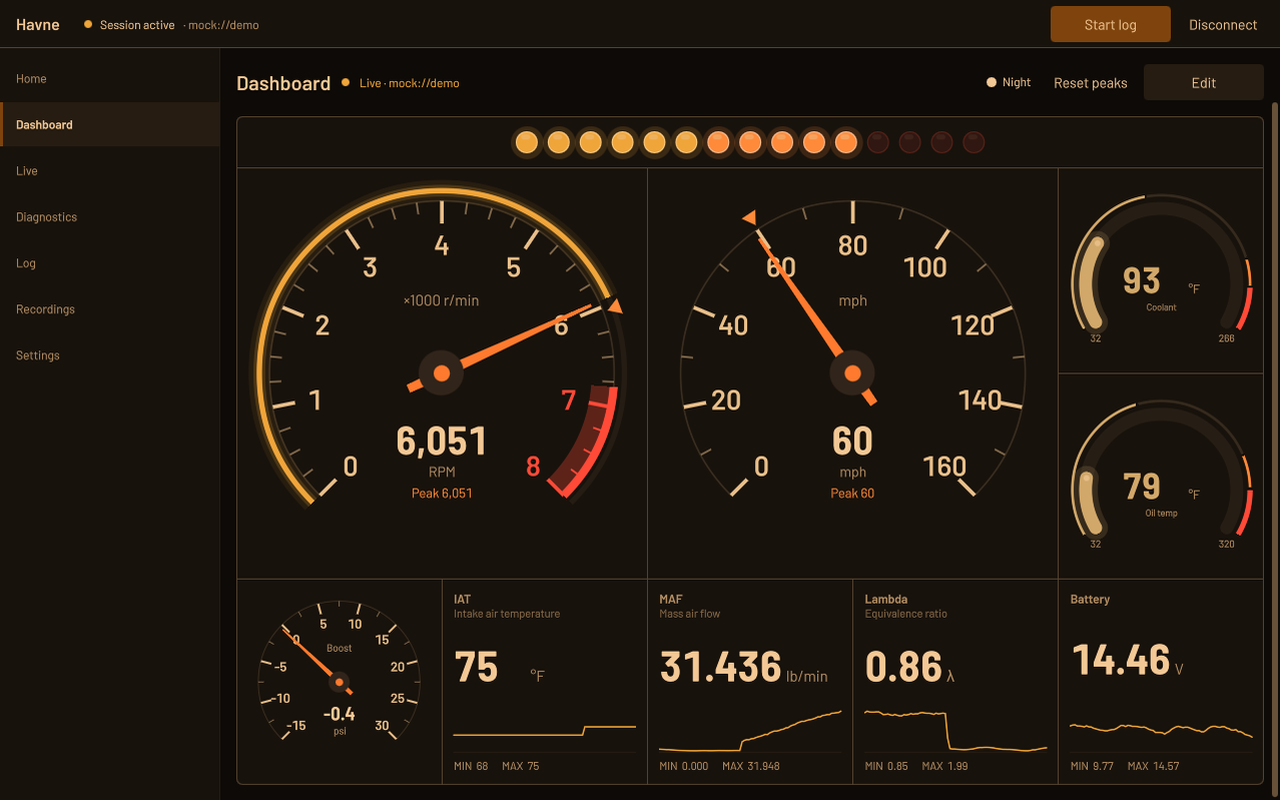
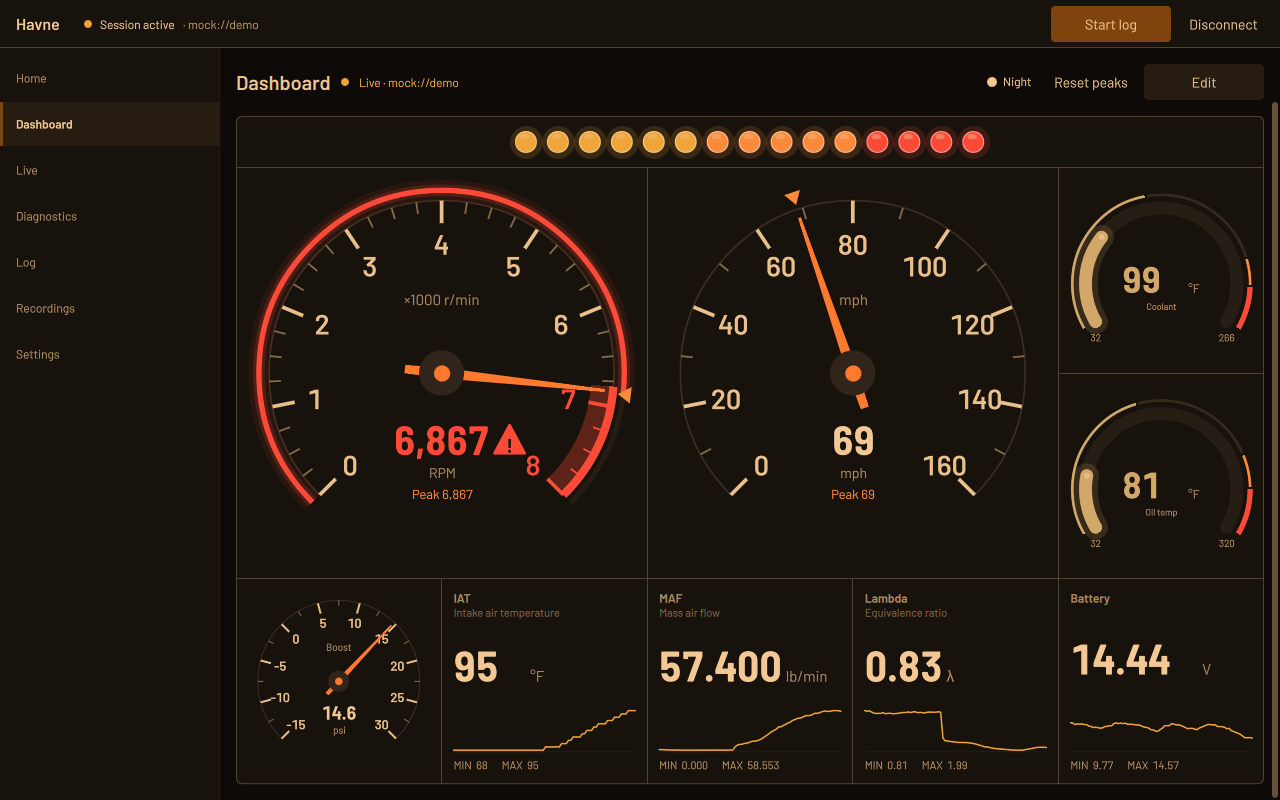
docs: retake the desktop Dashboard media with the turbo
The demo engine is turbocharged, so the README's Dashboard clip and the Light and Night stills show the Boost dial reading about 16 psi in a pull. The gallery's alt texts and the clip's caption follow.

diff --git a/docs/screenshots.md b/docs/screenshots.md
@@ -20,12 +20,12 @@ show. The README shows a few of these.
 
 ![The Dashboard through a quarter mile: a launch from the two-step near 3,900 rpm, upshifts that refill the shift lights, and past 100 mph at the line](images/dashboard.gif)
 
-*A quarter mile on the warmed-up vehicle: the launch, each upshift, and
-coolant and oil climbing toward the fan's cut-in.*
+*A quarter mile on the warmed-up vehicle: the launch, each upshift, boost
+building to about 16 psi, and coolant and oil climbing toward the fan's cut-in.*
 
 | Light | Night, amber | Night, red |
 |---|---|---|
-| [![The Dashboard in the Light look in a 2nd-gear pull at 5,849 rpm](images/desktop-dashboard-light.png)](images/desktop-dashboard-light.png) | [![The Dashboard in Night's amber style in a 2nd-gear pull at 6,051 rpm](images/desktop-dashboard-amber.png)](images/desktop-dashboard-amber.png) | [![The Dashboard in Night's red style in a 2nd-gear pull at 6,336 rpm](images/desktop-dashboard-red.png)](images/desktop-dashboard-red.png) |
+| [![The Dashboard in the Light look in a 2nd-gear pull at 5,992 rpm](images/desktop-dashboard-light.png)](images/desktop-dashboard-light.png) | [![The Dashboard in Night's amber style in a 2nd-gear pull at 6,867 rpm](images/desktop-dashboard-amber.png)](images/desktop-dashboard-amber.png) | [![The Dashboard in Night's red style in a 2nd-gear pull at 7,004 rpm](images/desktop-dashboard-red.png)](images/desktop-dashboard-red.png) |
 
 ### Live
 
